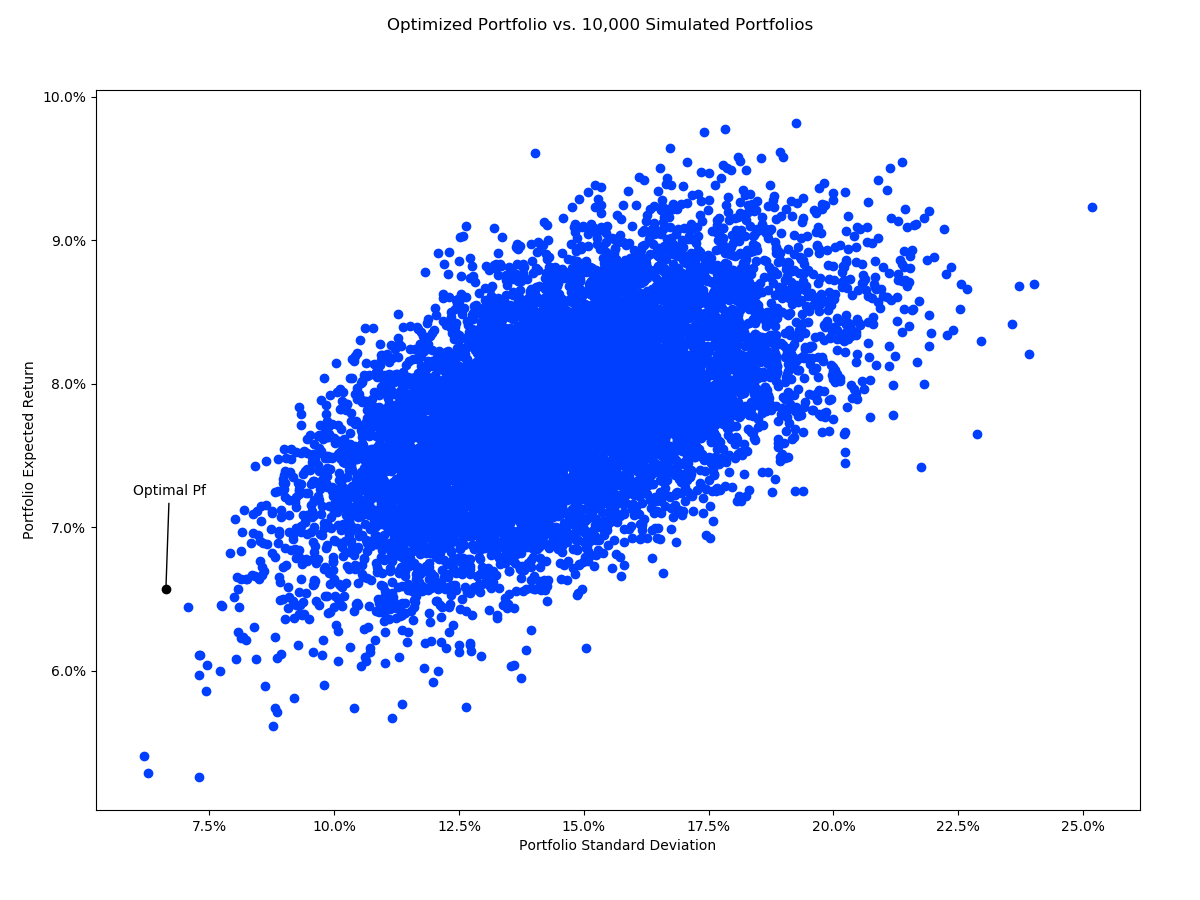
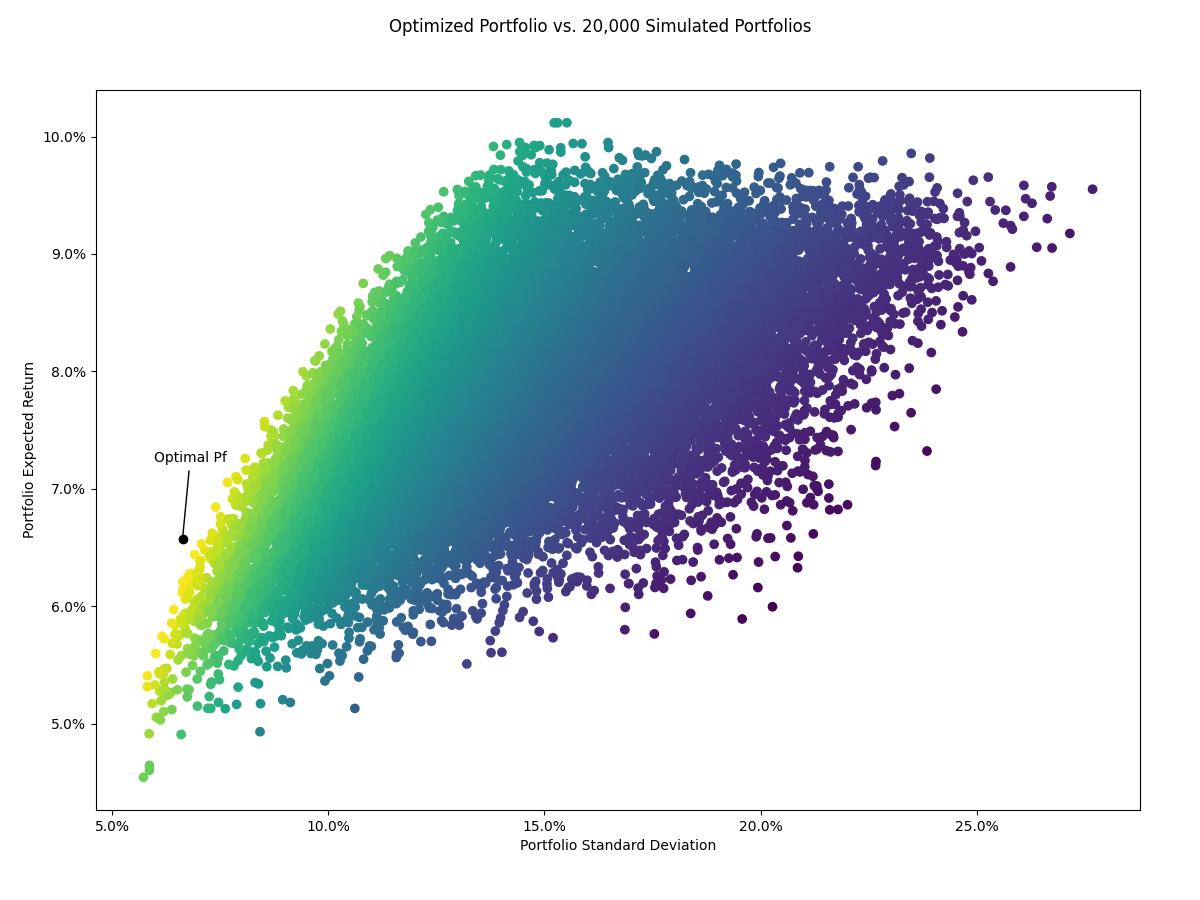
ran with new code

diff --git a/README.md b/README.md
@@ -11,6 +11,6 @@ https://en.wikipedia.org/wiki/Sharpe_ratio
 
 This project contains two modules, "optimization.py" and "portfolios.py." The "optimization" module contains the class architecture for the optimizer, and the "portfolios" module makes use of the Optimizer class by comparing the "optimal" portfolio with 10,000 randomly-weighted simulated portfolios. The results are that the "optimal" portfolio produces the highest risk-adjusted return of any combination of the constituent assets.
 
-![Alt text](/optimal_port.png?raw=true "Optimal Portfolio vs. 10,000 Randomly-Weighted Simulated Portfolios")
+![Alt text](/optimal_port.png?raw=true "Optimal Portfolio vs. 20,000 Randomly-Weighted Simulated Portfolios")
 
 Next in line for new features: allow the user to specify the objective function, i.e. either maximize Sharpe, minimize portfolio variance, or maximize some portfolio "utility function".
